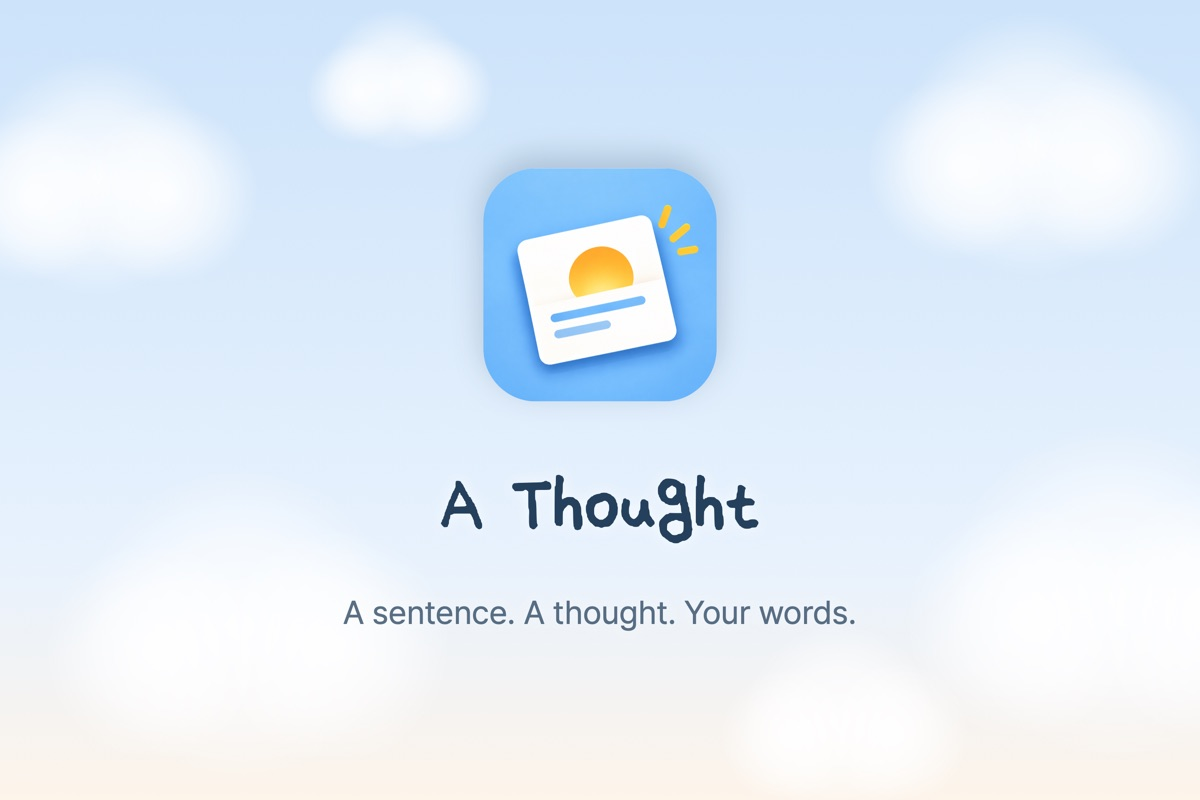
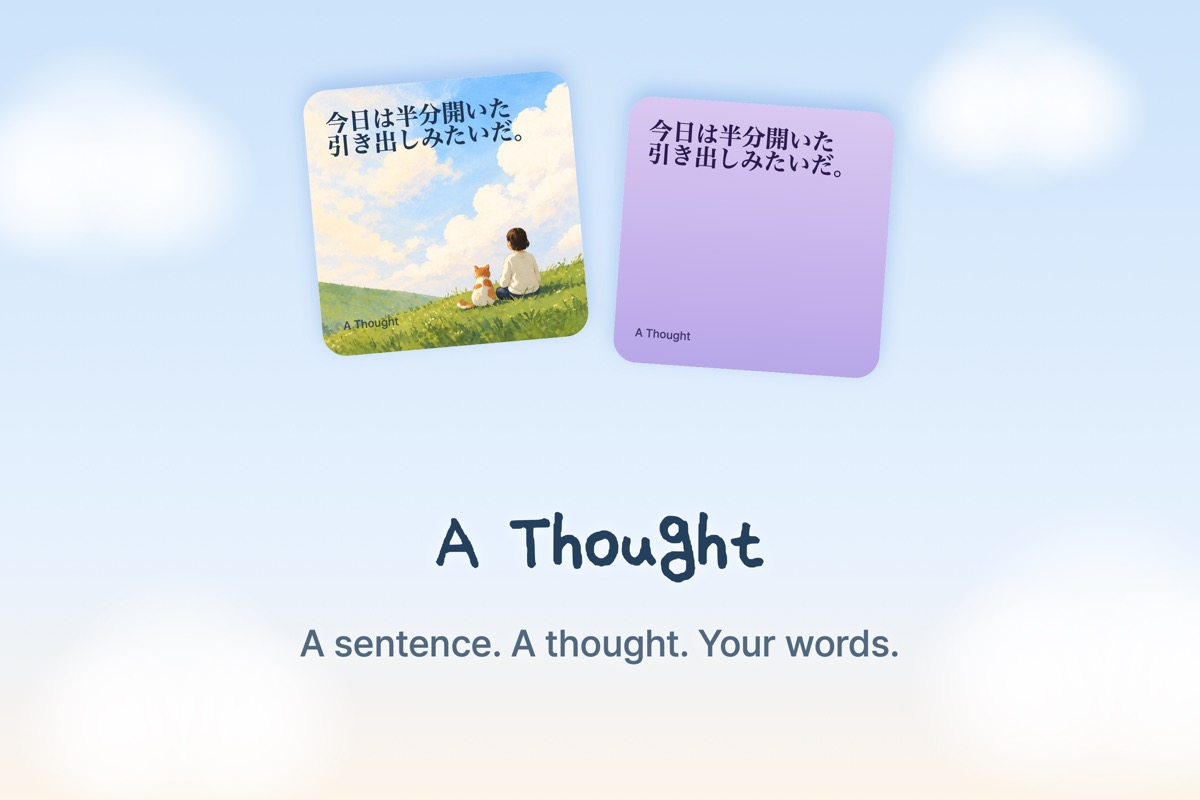
a-thought: 프레스 킷 스크린샷·헤더·검색 이미지를 1.1.0 으로 (writing #360, #170)
- 스크린샷 3개 언어 7장 → 8장 (2번째에 위젯 장면, 1번 시작 화면 반짝임 없음). 파일 이름이 앱 저장소와 같게 바뀜 (2-widget 이 들어가 3-home…8-brain)
- 헤더·검색 결과: 위젯 카드·두 줄 제목 (writing #389)
- preview/ JPEG 다시 만듦 (sips --resampleWidth 480·1200), press.html 목록·alt 를 captions.json 제목으로

Changed region(s): [[0.2467, 0.0312, 0.9867, 0.5], [0.2467, 0.5938, 0.74, 0.8438], [0.3392, 0.5938, 0.4008, 0.7188]]

diff --git a/a-thought/press.html b/a-thought/press.html
@@ -71,12 +71,13 @@
   <div class="panel p-en">
     <div class="shots">
       <a href="press/screenshots/en-1-start.png"><img src="press/preview/en-1-start.jpg" alt="A one-minute thought walk" width="480" height="1043" loading="lazy" lang="en"></a>
-      <a href="press/screenshots/en-2-home.png"><img src="press/preview/en-2-home.jpg" alt="Today&#x27;s sentence" width="480" height="1043" loading="lazy" lang="en"></a>
-      <a href="press/screenshots/en-3-writing.png"><img src="press/preview/en-3-writing.jpg" alt="Then keep going" width="480" height="1043" loading="lazy" lang="en"></a>
-      <a href="press/screenshots/en-4-flow.png"><img src="press/preview/en-4-flow.jpg" alt="See where your mind went" width="480" height="1043" loading="lazy" lang="en"></a>
-      <a href="press/screenshots/en-5-stats.png"><img src="press/preview/en-5-stats.jpg" alt="This week&#x27;s thoughts" width="480" height="1043" loading="lazy" lang="en"></a>
-      <a href="press/screenshots/en-6-calendar.png"><img src="press/preview/en-6-calendar.jpg" alt="Your thoughts, day by day" width="480" height="1043" loading="lazy" lang="en"></a>
-      <a href="press/screenshots/en-7-brain.png"><img src="press/preview/en-7-brain.jpg" alt="What&#x27;s on my mind" width="480" height="1043" loading="lazy" lang="en"></a>
+      <a href="press/screenshots/en-2-widget.png"><img src="press/preview/en-2-widget.jpg" alt="On your home screen" width="480" height="1043" loading="lazy" lang="en"></a>
+      <a href="press/screenshots/en-3-home.png"><img src="press/preview/en-3-home.jpg" alt="Today&#x27;s sentence" width="480" height="1043" loading="lazy" lang="en"></a>
+      <a href="press/screenshots/en-4-writing.png"><img src="press/preview/en-4-writing.jpg" alt="Then keep going" width="480" height="1043" loading="lazy" lang="en"></a>
+      <a href="press/screenshots/en-5-flow.png"><img src="press/preview/en-5-flow.jpg" alt="See where your mind went" width="480" height="1043" loading="lazy" lang="en"></a>
+      <a href="press/screenshots/en-6-stats.png"><img src="press/preview/en-6-stats.jpg" alt="This week&#x27;s thoughts" width="480" height="1043" loading="lazy" lang="en"></a>
+      <a href="press/screenshots/en-7-calendar.png"><img src="press/preview/en-7-calendar.jpg" alt="Your thoughts, day by day" width="480" height="1043" loading="lazy" lang="en"></a>
+      <a href="press/screenshots/en-8-brain.png"><img src="press/preview/en-8-brain.jpg" alt="What&#x27;s on my mind" width="480" height="1043" loading="lazy" lang="en"></a>
     </div>
     <h3>Header (21:9) and search result (3:2)</h3>
     <div class="creative">
@@ -87,12 +88,13 @@
   <div class="panel p-ko">
     <div class="shots">
       <a href="press/screenshots/ko-1-start.png"><img src="press/preview/ko-1-start.jpg" alt="하루 1분, 생각 산책" width="480" height="1043" loading="lazy" lang="ko"></a>
-      <a href="press/screenshots/ko-2-home.png"><img src="press/preview/ko-2-home.jpg" alt="오늘의 한 문장" width="480" height="1043" loading="lazy" lang="ko"></a>
-      <a href="press/screenshots/ko-3-writing.png"><img src="press/preview/ko-3-writing.jpg" alt="이어서, 한 번 더" width="480" height="1043" loading="lazy" lang="ko"></a>
-      <a href="press/screenshots/ko-4-flow.png"><img src="press/preview/ko-4-flow.jpg" alt="생각이 흘러간 길" width="480" height="1043" loading="lazy" lang="ko"></a>
-      <a href="press/screenshots/ko-5-stats.png"><img src="press/preview/ko-5-stats.jpg" alt="이번 주의 생각" width="480" height="1043" loading="lazy" lang="ko"></a>
-      <a href="press/screenshots/ko-6-calendar.png"><img src="press/preview/ko-6-calendar.jpg" alt="쌓여 가는 나의 생각" width="480" height="1043" loading="lazy" lang="ko"></a>
-      <a href="press/screenshots/ko-7-brain.png"><img src="press/preview/ko-7-brain.jpg" alt="요즘 나의 뇌구조" width="480" height="1043" loading="lazy" lang="ko"></a>
+      <a href="press/screenshots/ko-2-widget.png"><img src="press/preview/ko-2-widget.jpg" alt="홈 화면에 오늘의 문장" width="480" height="1043" loading="lazy" lang="ko"></a>
+      <a href="press/screenshots/ko-3-home.png"><img src="press/preview/ko-3-home.jpg" alt="오늘의 한 문장" width="480" height="1043" loading="lazy" lang="ko"></a>
+      <a href="press/screenshots/ko-4-writing.png"><img src="press/preview/ko-4-writing.jpg" alt="이어서, 한 번 더" width="480" height="1043" loading="lazy" lang="ko"></a>
+      <a href="press/screenshots/ko-5-flow.png"><img src="press/preview/ko-5-flow.jpg" alt="생각이 흘러간 길" width="480" height="1043" loading="lazy" lang="ko"></a>
+      <a href="press/screenshots/ko-6-stats.png"><img src="press/preview/ko-6-stats.jpg" alt="이번 주의 생각" width="480" height="1043" loading="lazy" lang="ko"></a>
+      <a href="press/screenshots/ko-7-calendar.png"><img src="press/preview/ko-7-calendar.jpg" alt="쌓여 가는 나의 생각" width="480" height="1043" loading="lazy" lang="ko"></a>
+      <a href="press/screenshots/ko-8-brain.png"><img src="press/preview/ko-8-brain.jpg" alt="요즘 나의 뇌구조" width="480" height="1043" loading="lazy" lang="ko"></a>
     </div>
     <h3>Header (21:9) and search result (3:2)</h3>
     <div class="creative">
@@ -103,12 +105,13 @@
   <div class="panel p-ja">
     <div class="shots">
       <a href="press/screenshots/ja-1-start.png"><img src="press/preview/ja-1-start.jpg" alt="1日1分、考えのさんぽ" width="480" height="1043" loading="lazy" lang="ja"></a>
-      <a href="press/screenshots/ja-2-home.png"><img src="press/preview/ja-2-home.jpg" alt="今日の一文" width="480" height="1043" loading="lazy" lang="ja"></a>
-      <a href="press/screenshots/ja-3-writing.png"><img src="press/preview/ja-3-writing.jpg" alt="続けて、もうひとつ" width="480" height="1043" loading="lazy" lang="ja"></a>
-      <a href="press/screenshots/ja-4-flow.png"><img src="press/preview/ja-4-flow.jpg" alt="考えがたどった道" width="480" height="1043" loading="lazy" lang="ja"></a>
-      <a href="press/screenshots/ja-5-stats.png"><img src="press/preview/ja-5-stats.jpg" alt="今週の考え" width="480" height="1043" loading="lazy" lang="ja"></a>
-      <a href="press/screenshots/ja-6-calendar.png"><img src="press/preview/ja-6-calendar.jpg" alt="たまっていく考え" width="480" height="1043" loading="lazy" lang="ja"></a>
-      <a href="press/screenshots/ja-7-brain.png"><img src="press/preview/ja-7-brain.jpg" alt="最近のわたしの頭の中" width="480" height="1043" loading="lazy" lang="ja"></a>
+      <a href="press/screenshots/ja-2-widget.png"><img src="press/preview/ja-2-widget.jpg" alt="ホーム画面に今日の一文" width="480" height="1043" loading="lazy" lang="ja"></a>
+      <a href="press/screenshots/ja-3-home.png"><img src="press/preview/ja-3-home.jpg" alt="今日の一文" width="480" height="1043" loading="lazy" lang="ja"></a>
+      <a href="press/screenshots/ja-4-writing.png"><img src="press/preview/ja-4-writing.jpg" alt="続けて、もうひとつ" width="480" height="1043" loading="lazy" lang="ja"></a>
+      <a href="press/screenshots/ja-5-flow.png"><img src="press/preview/ja-5-flow.jpg" alt="考えがたどった道" width="480" height="1043" loading="lazy" lang="ja"></a>
+      <a href="press/screenshots/ja-6-stats.png"><img src="press/preview/ja-6-stats.jpg" alt="今週の考え" width="480" height="1043" loading="lazy" lang="ja"></a>
+      <a href="press/screenshots/ja-7-calendar.png"><img src="press/preview/ja-7-calendar.jpg" alt="たまっていく考え" width="480" height="1043" loading="lazy" lang="ja"></a>
+      <a href="press/screenshots/ja-8-brain.png"><img src="press/preview/ja-8-brain.jpg" alt="最近のわたしの頭の中" width="480" height="1043" loading="lazy" lang="ja"></a>
     </div>
     <h3>Header (21:9) and search result (3:2)</h3>
     <div class="creative">
